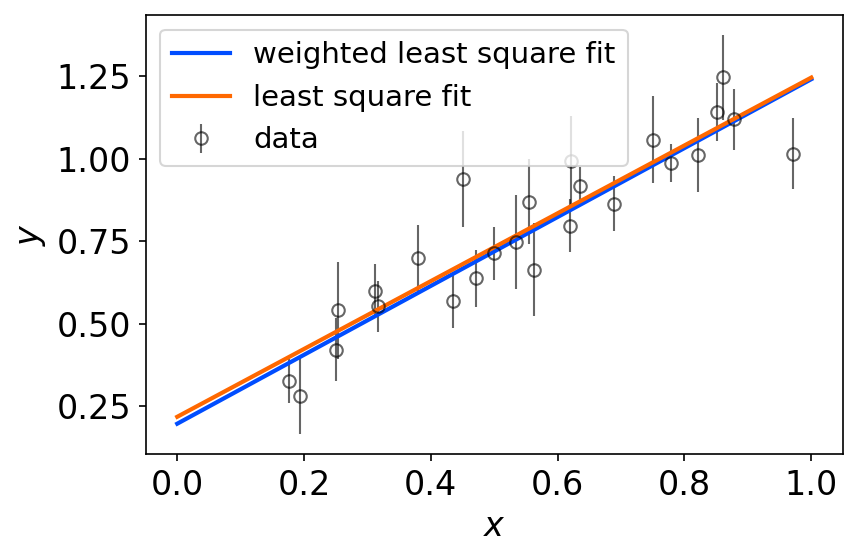
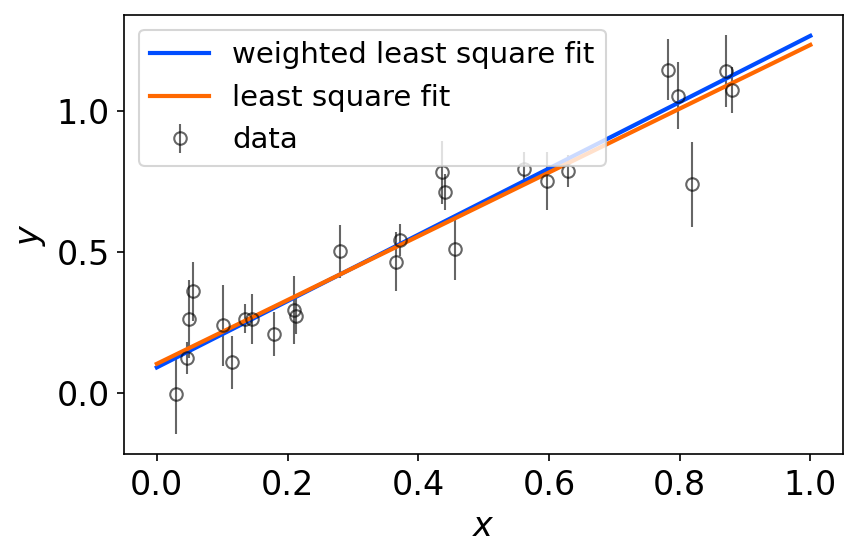
Update documentation

diff --git a/searchindex.js b/searchindex.js
@@ -1,1 +1,1 @@
-Search.setIndex({docnames:["intro","pages/example_shifting","pages/fitting_a_line_to_data","pages/good_and_bad_coding_practices","pages/good_and_bad_plotting_practices","pages/loops_and_parallelism","pages/making_rgb_images","pages/matrix_operations_with_numpy","pages/maxmimum_likelihood_worked_example","pages/publication_graphics_and_errorbars","pages/reading_fits_files","pages/tips_for_large_amounts_of_data"],envversion:{"sphinx.domains.c":2,"sphinx.domains.changeset":1,"sphinx.domains.citation":1,"sphinx.domains.cpp":3,"sphinx.domains.index":1,"sphinx.domains.javascript":2,"sphinx.domains.math":2,"sphinx.domains.python":2,"sphinx.domains.rst":2,"sphinx.domains.std":2,"sphinx.ext.intersphinx":1,"sphinxcontrib.bibtex":7,sphinx:56},filenames:["intro.md","pages/example_shifting.ipynb","pages/fitting_a_line_to_data.ipynb","pages/good_and_bad_coding_practices.ipynb","pages/good_and_bad_plotting_practices.ipynb","pages/loops_and_parallelism.ipynb","pages/making_rgb_images.ipynb","pages/matrix_operations_with_numpy.ipynb","pages/maxmimum_likelihood_worked_example.ipynb","pages/publication_graphics_and_errorbars.ipynb","pages/reading_fits_files.ipynb","pages/tips_for_large_amounts_of_data.ipynb"],objects:{},objnames:{},objtypes:{},terms:{"000":5,"00000000e":7,"0001":4,"0001027239995892":10,"0001308917999267578":5,"00609576":7,"010":4,"012584209442138672":5,"01666669920087":10,"020":4,"02709303":7,"0274x":2,"02922821045":10,"03382804":7,"0401":[5,11],"0435x":2,"046":10,"04956984519958496":5,"052011":10,"05862051":7,"06301708":7,"06532744900725809":8,"0x7f97aa5edd90":1,"0x7fc58dd8dd90":10,"0x7fc5904c5050":10,"0x7fd5abec6510":2,"0x7fd5acb7ea90":2,"100":[2,4,5,8,9,11],"1000":8,"10000000":5,"1024":[5,10],"108":10,"1089":5,"10983839":7,"1156":5,"120":[0,4],"121":5,"1225":5,"125":[3,4,6,9],"1250":10,"1296":5,"12t04":10,"1369":5,"139999848325e":10,"140":4,"14207650273224":5,"144":5,"1444":5,"150":[1,2,5,8,10,11],"1521":5,"15645762":7,"1570855422":10,"158":10,"15941578":7,"1600":5,"161":[5,11],"165":10,"1681":5,"169":5,"1722755945":11,"1764":5,"180":10,"1849":5,"190":4,"19128027e":7,"1936":5,"196":5,"19722765":7,"1974":2,"200":[3,6],"2000":10,"2019":10,"2021":0,"2025":5,"2048":10,"2097":3,"2116":5,"21515457":7,"216":4,"21615434":7,"2183":2,"2209":5,"225":5,"230":4,"2304":5,"2357076017879762x":8,"23793526":7,"2401":5,"24050117":7,"24078e":4,"241e":4,"24430881e":7,"2500":5,"250841140747":10,"2542721134":7,"256":[5,8],"256x256":8,"2601":5,"265":4,"2704":5,"2767312":7,"2809":5,"283":10,"2834634623":11,"2853":10,"289":5,"2916":5,"29939075":7,"2e33":3,"2kx2k":10,"300":[4,5,9],"3025":5,"305":4,"307":4,"3136":5,"31603766":3,"31826168":2,"32381837":7,"324":5,"3249":5,"325":10,"32773":2,"33310377":7,"3364":5,"340":4,"3481":5,"359":4,"3600":5,"361":5,"365":3,"370":4,"3721":5,"37544400e":7,"3844":5,"3864":5,"390":4,"3957824707":10,"3969":5,"3e10":4,"400":[4,5,10],"4001":1,"4096":5,"4225":5,"4356":5,"441":5,"4489":5,"460":4,"4624":5,"475":4,"4761":5,"484":5,"48423146":7,"490":4,"4900":5,"496e":3,"500":[1,4],"5041":5,"512":10,"51788":[5,11],"5184":5,"521":4,"526":4,"529":5,"5329":5,"5476":5,"55035876":7,"551":4,"55434032":7,"55708672e":7,"5625":5,"5719208717346191":5,"576":5,"5776":5,"5929":5,"596127":8,"59851851e":7,"5e13":3,"6000":5,"6084":5,"6241":5,"625":[5,10],"638":4,"63983894":7,"640":4,"6400":5,"6561":5,"657384":10,"670":4,"6724":5,"676":5,"67e":3,"68559354":7,"6889":5,"6999969482":10,"700":10,"7000":5,"7056":5,"711232209935982":5,"7225":5,"7254":10,"729":5,"72909715e":7,"735":4,"7396":5,"740":4,"755":4,"7569":5,"76478413":7,"7744":5,"780029297":10,"784":5,"7921":5,"800":1,"8100":5,"8281":5,"839":4,"840":4,"841":5,"8464":5,"854":4,"86097095":7,"8649":5,"8836":5,"900":[4,5],"9025":5,"9216":5,"935":4,"9409":5,"946270226152e":10,"950":4,"954":4,"956150167288":3,"9604":5,"961":5,"970":4,"97399356":7,"975":4,"97923713":7,"9801":5,"98999528":7,"break":11,"case":2,"duch\u00ean":0,"float":2,"function":[1,3,7,8],"import":[1,2,3,4,5,6,7,8,9,10,11],"new":[10,11],"return":[3,4,5,6,8,9],"true":[2,4,8],"try":11,"var":[7,11],"while":0,DCS:10,FOR:[5,10],For:[2,11],NOT:7,The:[2,3],There:[5,9],WCS:10,__main__:8,__name__:8,a_grid:8,ab_grid:8,about:1,abov:2,abs:4,acquisit:10,adc:10,add:[2,3,8],add_subplot:10,adn:8,adrian:[2,8],after:[1,2,10],airmass:10,all:9,all_imag:11,along:[10,11],alpha:[2,3,4,5,8],alpha_fit:8,also:8,alwai:11,amp:10,amplifi:10,ampscol:10,ampsrow:10,anaconda3:[8,10],analyz:11,angl:10,angstrom:[5,11],anoth:2,anyth:0,apernam:10,aperord:10,aperraw:10,apertur:10,appear:10,append:[4,5],append_ax:[1,8],approxim:3,arang:[3,5,11],arb:[10,11],arbitrari:8,archiv:10,arg:[4,8],argument:10,arr1:5,arr2:5,arrai:[2,4,5,7,8,10],array_invers:7,art:9,artist:9,ascens:10,assign:[9,11],assum:[2,8,9],astronomi:[0,3],astropi:[1,3,5,6,10,11],astroscrappi:10,auto:8,axes:[1,4,6,8,11],axes_grid1:[1,8],axesimag:10,axi:[1,3,10],axin:8,b_filenam:6,b_grid:8,back:9,backend:9,bad:[5,10],bbox_inch:4,becaus:11,becom:[8,10],befor:[1,10],beg:10,begin:[2,10],best:[2,8],beta:[2,8],beta_0:2,beta_1:2,beta_:2,beta_fit:8,beta_hat:2,beta_hat_unweight:2,beta_hat_weight:2,better:[3,10],between:[1,8],bia:10,bin:[4,10],binprd:10,binscln:10,bitpix:10,black:4,blog:[2,8],blue:[4,6,8],blues_r:1,board:10,boldsymbol:2,both:[2,9],bscale:10,built:8,bzero:10,calcul:8,call:[1,3,5,7,10,11],camcksum:10,camera:10,cameraid:10,can:[2,8,10],cap:[9,10],capacitor:10,capsiz:[4,9],card:10,care:[1,11],cax:[1,8],ccd:10,ccdpix:10,cd1_1:10,cd1_1c:10,cd1_2:10,cd1_2c:10,cd2_1:10,cd2_1c:10,cd2_2:10,cd2_2c:10,cdb:10,cdelt1:11,cdelt1u:10,cdelt2u:10,celesti:10,center:[4,8],centimet:3,cgs:3,chang:[3,10],charg:10,check:5,checksum:10,chi:[3,4],chunk:[5,11],cksumok:10,clean:10,clear:3,clock:10,close:[10,11],cmap:[1,2,6,8,10],cmu:2,cname1:10,cname1c:10,cname2:10,cname2c:10,code:[0,5,8,10],coeff0:5,coeff1:5,col:6,color:[1,2,3,4,5,6,9,10],colorbar:[1,3,8,10],column:[2,10],column_stack:2,columnwis:7,comment:[3,10],compar:[8,9],comput:10,concis:3,conform:10,connect:9,constant:[2,3],contain:9,control:10,convert:3,coord:10,coordin:10,core:7,corner:8,cos:[3,4],count:[4,10],cover:10,crder1:10,crder1c:10,crder2:10,crder2c:10,creat:10,credit:0,crimson:[2,8,9],crpix1:10,crpix1c:10,crpix2:10,crpix2c:10,crval1:[10,11],crval1c:10,crval1u:10,crval2:10,crval2c:10,crval2u:10,cselprd:10,cshalizi:2,csmp:10,csv:11,csyer1:10,csyer1c:10,csyer2:10,csyer2c:10,ctm:10,ctype1:10,ctype1c:10,ctype2:10,ctype2c:10,cunit1:10,cunit1c:10,cunit2:10,cunit2c:10,current:[8,10,11],cwd:10,d165_os_bs_ff_bp_crj:[10,11],dai:3,darkblu:2,dash:[3,4,8],dat2:4,dat:4,data:[3,4,6,8,9,10],datasec:10,datastyl:2,date:10,datum:2,deal:11,dec:10,declin:10,def:[1,3,4,5,6,8,11],defin:[2,3,5,11],deg:10,delta:4,deprec:[8,10],descrambl:10,descript:10,design:2,detail:1,detector:10,dgeom:10,diag:2,dict:[2,9],dictstly:2,diff:1,differ:[1,5,7,8],difficult:9,dimens:[7,8,10,11],direct:[2,10],directli:[2,10],directori:11,disp:8,displai:[3,10],displaystyl:2,distanc:[3,4],distribut:9,divid:[1,8],dl0:4,dnaxis1:10,dnaxis2:10,doc:10,document:3,doe:9,don:[8,11],done:11,dot:[2,4],doubl:11,dpi:[1,2,3,4,5,6,8,10,11],dsensor:10,dspb:10,dstack:6,dt_base:5,dt_fast:5,dt_numpi:5,dt_slow:5,dure:10,each:[2,5,8,9,10,11],earth:3,easi:11,easier:11,ecolor:[2,4,9],edg:[1,9],edgecolor:[1,8],edu:2,effect:11,effici:5,either:8,element:[2,10,11],elif:4,elinewidth:[2,9],elinor:10,els:5,empti:11,end:[2,5,10],entir:5,enumer:[6,8,11],epoch:10,eps:[9,11],equat:[2,8],equinox:10,equinoxu:10,equival:10,eras:10,erg:5,erpbin:10,err:4,error:[2,8,10],errorbar:[2,4],evalu:[2,3,8],evaluate_on_grid:8,even:9,everi:11,exampl:11,example_shift:11,exp:10,exposur:[6,10],express:2,exptim:10,extra:11,extrem:5,face:9,fall:0,fals:[4,5],fast:5,feel:0,fft2:1,fft:1,field:10,fig1:[4,11],fig2:[4,11],fig3:[4,11],fig5:[4,11],fig6:[4,11],fig:[1,4,6,8,10,11],figsiz:[3,4,5,6,8,10],figur:[1,2,3,4,5,6,8,10,11],file:[5,7,9,11],file_nam:[10,11],filenam:10,fill_between:[3,5],filter:10,filtnam:10,filtord:10,filtraw:10,final_figur:[9,11],find:8,first:[2,9,11],fit:[1,4,5,6,11],fits_card:10,fitting_a_line_to_data:11,fix:[3,10],fk5:10,flat:[6,8,10,11],float32:10,flux:[5,11],folder:[7,11],font:2,fontsiz:[1,2,3,4,5,8,9,10],form:2,format:[9,10],fourier_shift:1,fourier_star:1,frac:8,fraction:10,frame:10,frameon:4,free:0,frequent:3,from:[1,3,4,5,6,7,8,10,11],func:8,func_val:8,g_filenam:6,gain:10,gaspard:0,gate:10,gaussian:[2,8,9],gausssian:8,gca:1,gener:[2,3,5,8,9],genfromtxt:7,geomcod:10,geometri:10,get:[5,6,8,9,10],get_cmap:2,get_spectrum_and_wavelength:5,given:[2,8],global:3,good:9,good_and_bad_coding_practic:11,good_and_bad_plotting_practic:11,good_spectrum_fast:5,good_spectrum_slow:5,gouraud:8,grab:10,grad:10,gradient:8,grai:2,gram:3,great:[2,3,8],green:[4,6,8],grei:10,grid:[4,8],ground:2,guess:[8,10],gufunc:7,had:3,half:1,hard:[5,10],has:[7,8,10],hat:2,have:[2,3,5,8,9,11],hdul:10,header:[5,10,11],helper:3,here:[0,2,5,9],heteroscedast:2,high:10,hist:4,histor:10,histori:10,hopefulli:0,hour:[3,10],how:[2,9],hstack:7,html:10,http:[2,8,10],hundr:11,i_j:10,ident:11,idnum:10,ifft2:1,imag:[8,11],image_b:6,image_g:6,image_r:6,imagenorm:10,imagin:5,implement:8,imshow:[1,6,10,11],in_rang:6,inclus:7,index:10,individu:5,info:10,initi:[5,6],inlin:9,input:[1,3,5,7,8],input_:1,inset:8,inset_loc:8,instead:[5,11],instrum:10,integ:4,integr:4,integrand:4,intensity_rang:6,interact:9,interp:1,interv:10,inv:[2,7],invent:8,invers:[1,4,8],ipykernel_7692:7,ipykernel_7729:11,ipykernel_launch:[8,10],ipynb:11,iraf:10,is_bad:5,isn:0,iter:[5,8,11],its:7,itself:11,ivar:8,jacobpilawa:[8,10],jet:2,kdzzptnn501_n9y8q82g0c1w0000gn:[7,11],keep:[3,11],kepler:3,keplers_third_law:3,know:[0,5],known:2,label:[2,3,4,5,8,9,10],lam:5,lambda:[4,5],last:[3,7,11],later:[8,10],law:3,lectur:2,left:[2,8],legaci:3,legend:[2,3,4,5,8,9],len:[3,4,5,8,9,11],length:[3,8],length_of_year:3,let:[0,2,10],lib:[8,10],librari:3,lick:10,lightblu:1,like:[3,11],limit:3,linalg:[2,7],line:[4,8,9],linear:[8,10],linearstretch:10,linestyl:[2,9],link:8,linspac:[2,3,4,8,9],list:10,listdir:11,ln_likelihood:8,load:[7,11],load_imag:6,load_in_imag:11,loadtxt:7,loc1:8,loc2:8,loc:[2,4,8,9],log10:4,log:8,logic:3,lognorm:[1,6,10],logstretch:10,look:[9,11],loop:11,loops_and_parallel:11,loral:10,lot:11,low:10,lower:[1,6,9,10],m16ga:[6,11],m16ra:[6,11],m16ua:[1,6,11],m57:10,magenta:3,magic:3,magma:10,major:3,make:[2,3,5,8,9,11],make_axes_locat:[1,8],make_measurement_from_imag:11,make_plot:3,making_rgb_imag:11,mark:1,mark_inset:8,marker:[2,4,8,9],markeredgecolor:[2,9],markeredgewidth:9,markerfacecolor:9,mass:[3,4],match:10,math:2,mathbf:2,mathcal:8,matplotlib:[1,2,3,4,5,6,8,10,11],matplotlibdeprecationwarn:[8,10],matrix:2,matrix_operations_with_numpi:11,max:3,maxim:8,maxmimum_likelihood_worked_exampl:11,measur:[2,9],mec:2,mersp:10,meshgrid:8,messi:8,mfc:2,microsecond:10,might:11,min:[3,4,8],mind:3,minim:8,minimum:8,minmaxinterv:10,minor:[8,10],minut:3,mismatch:7,mle:8,mode:[1,10],model:[2,8],modifi:2,modul:[7,11],modular:3,modulu:4,more:[2,9,11],most:[3,7,11],mpl:[1,2,6,10],mpl_toolkit:[1,8],mpp:10,mreg:2,mstar:3,msun:3,mu0:4,multipl:10,multiply_arrai:5,must:5,name:[3,10,11],nameerror:11,naxi:10,naxis1:[10,11],naxis2:10,ncol:[1,4,6],ncshift:10,nearest:8,nebula:10,need:3,neg:8,negative_ln_likelihood:8,negative_ln_likelihood_v:8,new_out:6,newcam:10,newton:3,nhbesp:10,nice:[10,11],nickel:10,nickel_direct:10,noao:10,nois:[2,8],none:[2,4,8,9],norm:[1,6,10],normal:[2,4,7,8,9,10],note:7,notebook:[0,8,9],notyetset:10,now:[2,8,11],npy:[7,11],nrow:[1,4,6],nshift:1,nstime:10,number:[3,10],numpi:[1,2,3,4,6,8,9,10],object:[3,5,10],observ:10,obsnum:10,obstyp:10,odot:4,off:[1,9],often:[3,7],omeg:4,omega:4,omega_:4,omega_l:4,omega_m:4,omegam:4,onc:5,one:[10,11],ones:[2,5,7,8],ones_lik:9,onli:[2,10],opaqu:9,open:[1,5,6,10,11],oper:5,operand:7,optim:8,option:[1,8],orbit:3,order:1,ordin:10,org:10,orient:[1,8],origin:[1,6,8,10],other:[1,7,10],otherwis:11,our:[2,3,8,9],out:5,output:[3,5,8,11],overscan:10,ownrhint:10,ownrnot:10,packag:[5,8,10,11],pad:[1,8,10],paddc:10,par:8,parallel:10,param:8,paramet:[8,10],part:5,partial:9,pass:[8,10,11],path:10,pcolor:8,pcolormesh:8,pdf:2,peopl:11,per:10,percentil:[1,6,10],perform:5,perhap:3,period:[3,10],pfreq:10,pixel:10,pleas:10,plot:[2,3,5,8,11],plot_before_and_aft:1,plot_image_analysi:11,plot_subimag:6,plt:[1,2,3,4,5,6,8,9,10,11],png:[4,11],poco:10,point:[2,3,8,9],polyfit:8,posit:[4,10],post:10,postscript:9,pprerd:10,pre:[10,11],preread:10,price:8,primari:10,primaryhdu:10,print:[1,2,3,5,7,8,10],problem:9,process_imag:11,program:10,proper:2,properli:2,properti:9,psf_11star:11,psf_gaussian_51:[1,11],pskip:10,publication_graphics_and_errorbar:11,pull:3,put:0,pyplot:[1,2,3,4,5,6,8,9,10,11],python3:[8,10],python:11,qadc:10,quad:4,quadrilater:8,question:4,quickli:11,r_filenam:6,radecsi:10,radesyss:10,rand:[7,11],random:[0,2,4,7,8,9,10,11],randomli:[2,8],rang:[4,5],ravel:8,rcparam:[2,8,10],rcshift:10,read:[5,6],readabl:3,reading_fits_fil:11,readout:10,real:[1,3,10],realli:[8,11],reason:5,reassign:5,recent:[7,11],record:11,red:[4,5,6,8],redshift:4,ref:10,refer:10,region:[3,5,8],releas:[8,10],reli:3,remov:10,render:9,replac:10,resampl:9,rescal:6,rescale_intens:6,reshap:[2,8],resourc:[2,8],result:[1,2,3,8],reveras:10,revers:10,rewrit:2,rgb_rescal:6,right:[1,2,4,8,9,10],ring:10,rise:10,rotat:[4,10],round:[2,3],rover:10,row:[9,10],rowwis:7,saddc:10,sai:5,same:[6,8,11],sampl:[2,8,10],sample_data:11,save:[7,11],savefig:[4,9],savetxt:7,savez:11,scalar:9,scale:[4,6,8],scatter:[1,3,8,9],scipi:[4,8],sclean:10,second:[3,4,5,9,10],seconds_to_year:3,section:[2,10],see:2,select:10,semi:3,semi_major_axi:3,sensibl:3,sensor:10,separ:9,serial:10,set:[5,8],set_titl:1,set_xlabel:[1,8],set_xlim:8,set_xtick:[1,6,11],set_ylabel:[1,8],set_ylim:8,set_ytick:[1,6,11],sfreq:10,sftcksum:10,shade:[3,8],shape:[1,2,6,7,8,9],share:3,sharei:4,sharex:4,shifted_star:1,show:[1,3,5,6,10],shuffl:10,shutter:10,sigma_:8,sigma_i:2,signatur:7,simpl:[10,11],simul:[2,4,9],simultan:10,sin:[3,4,9],sinc:[8,10],singl:10,sinh:4,site:[8,10],size:[1,2,4,7,8,9],skimag:6,skip:10,slightli:2,slow:[5,11],snippet:[0,8],softwar:10,solar:3,solid:4,solv:[2,3],some:[0,1,2,5,8,9],someth:11,sometim:[10,11],sort:11,sourc:5,spb:10,spd:10,spec:[5,11],special:10,specifi:[8,9],specta:11,spectrum:5,speed:[5,10],spspec:[5,11],sqrt:[3,4],sqrtstretch:10,stabl:10,stack:[6,7],standard:10,star:1,start:[5,10],stat:2,state:10,statement:[3,5],stellar:4,stop:5,style:[9,10],sub:8,subplot:[1,4,6,8,11],substrat:10,subtract:10,successfulli:8,sum:8,sum_:8,sun:3,support:9,symmetr:9,sys:10,system:[3,10],systemat:10,t_in_second:3,t_in_year:3,tabl:11,take:8,taken:8,tan:10,tcpr1:10,tcpr2:10,teach:0,telescop:10,tell:1,tempcon:10,tempdet:10,temperatur:[3,10],termin:8,test:[3,5],test_figur:[9,11],test_figure_hir:[9,11],text:[4,8,11],textsf:2,texttt:[8,11],than:3,thi:[2,3,5,8,10,11],thing1:10,thing:[3,10,11],third:3,those:5,though:[10,11],thousand:11,through:5,tick:[1,10],tick_right:8,tick_top:8,tight:4,tight_layout:[2,8,10],time:[2,3,4,5,10,11],time_in_second:3,time_in_year:3,tip:9,tips_for_large_amounts_of_data:11,titl:[3,10],togeth:0,top:8,tqdm:11,traceback:[7,11],transform:1,transpar:9,treat:10,trim:1,truth:[2,8],tsclean:10,tsec:10,tsprd:10,tub:10,turn:1,tusec:10,tutori:9,two:[8,10],type:10,u_fouri:1,u_rol:1,u_shift:1,ucam:10,ucamadc:10,ucamcdb:10,ucamsoft:10,ucamspb:10,ucamtim:10,ugeom:10,uncertainti:[2,8],uncorrel:8,underbrac:2,uniform:[2,7,8,9],unit:[3,10,11],unmask:5,unreli:5,unweight:2,upper:[2,4,9],use:[5,7,10,11],used:1,useful:[7,9],user:[8,10],uses:11,using:10,valu:[2,3,4,5,6,8,9,10,11],value1:5,value2:5,valueerror:7,variabl:3,varianc:8,vdot:2,vector:2,vector_of_on:2,ver:10,version:10,vertic:[1,4,8],visual:8,vmax:[1,6,8,10],vmin:[1,6,8,10],voltag:10,vstack:[7,8],vsuber:10,vsubex:10,wai:8,want:[5,11],watch:5,wavelength:[5,11],wcsname:10,wcsnamec:10,week:3,well:8,what:[1,2],whatev:5,wheel:8,whelan:8,when:[8,9,10,11],where:[2,5],which:[2,3,10,11],width:9,within:6,workshop:10,world:3,www:2,x_fit:2,x_shift:1,x_transpos:7,xaxi:8,xerr:9,xlabel:[2,3,4,5,8,9,11],xlim:[3,4,10],y_err:[2,8],y_fit:2,y_fit_unweight:2,y_fit_weight:2,y_shift:1,yaxi:8,year:3,yerr:[4,9],yhat:8,ylabel:[2,3,4,5,8,9,11],ylim:[3,4,5,10],you:3,your:[1,3],zero:[6,8,11],zip:[5,6],zoom:8,zoomed_inset_ax:8,zscaleinterv:10},titles:["Welcome!","Shifting Images","Fitting a Line to Data","Good and Bad Coding Practices","Good and Bad Plotting Practices","Loops and Parallelism","Making RGB Images","Matrix Operations with Numpy","Maximum Likelihood","Publication Quality Plots and Errorbars","Reading FITS Files","Tips for Large Amounts of Data"],titleterms:{"default":9,"function":[5,11],"public":9,Adding:10,The:9,about:11,access:7,add:11,allow:9,altern:10,amount:11,append:11,appli:5,arrai:11,avoid:11,background:5,bad:[3,4],bar:9,base:[5,7],befor:11,both:11,can:[7,11],cartesian:9,code:[3,11],colon:7,column:7,compar:1,comput:5,consid:11,context:0,data:[1,2,5,11],deal:7,defin:9,design:7,down:9,dpi:9,each:7,effici:11,element:[5,7],entir:7,error:9,errorbar:9,exampl:5,fanci:10,feel:11,few:11,figur:9,file:10,find:5,first:8,fit:[2,8,10],fourier:1,frankli:9,free:11,fun:11,get:7,glob:11,good:[3,4],graini:9,graphic:9,guidelin:3,has:5,here:3,idea:3,imag:[1,6,10],improv:3,increas:9,index:7,inform:11,interpol:1,invers:7,larg:11,larger:11,least:[2,8],level:1,like:[7,10],likelihood:8,line:2,linear:2,look:7,loop:5,loss:9,low:9,make:[6,7],mani:11,mask:5,matmul:7,matplotlib:9,matric:[2,7],matrix:7,maximum:8,memori:11,might:10,minut:11,more:5,multipl:[7,11],multipli:5,naiv:9,ndimag:1,notebook:11,numpi:[5,7,11],often:9,onc:11,onli:11,oper:7,ordinari:8,other:3,parallel:5,pixel:[1,9],plane:9,plot:[1,4,9,10],png:9,practic:[3,4,5],prefer:9,print:11,probabl:5,process:11,python:[5,7],qualiti:9,quick:5,raster:9,raw:[1,10],read:[10,11],realli:10,rememb:11,report:9,resolut:9,rgb:6,roll:1,row:7,sampl:7,save:9,scale:[9,10],scipi:1,see:10,separ:11,shift:1,show:9,slice:7,some:[3,10],specif:7,speed:11,spline:1,squar:[2,8],start:8,statement:11,stretch:10,subset:11,take:11,term:9,thi:[7,9],think:11,tip:[5,11],tough:7,tranpos:7,ugli:9,updat:11,using:[5,11],util:11,vector:[5,9],veri:9,visual:10,wai:10,weight:2,welcom:0,what:3,where:11,which:[7,9],wise:5,without:9,you:[5,9,10,11],your:9,yourself:5,zero:7}})
+Search.setIndex({docnames:["intro","pages/example_shifting","pages/fitting_a_line_to_data","pages/good_and_bad_coding_practices","pages/good_and_bad_plotting_practices","pages/loops_and_parallelism","pages/making_rgb_images","pages/matrix_operations_with_numpy","pages/maxmimum_likelihood_worked_example","pages/publication_graphics_and_errorbars","pages/reading_fits_files","pages/tips_for_large_amounts_of_data"],envversion:{"sphinx.domains.c":2,"sphinx.domains.changeset":1,"sphinx.domains.citation":1,"sphinx.domains.cpp":3,"sphinx.domains.index":1,"sphinx.domains.javascript":2,"sphinx.domains.math":2,"sphinx.domains.python":2,"sphinx.domains.rst":2,"sphinx.domains.std":2,"sphinx.ext.intersphinx":1,"sphinxcontrib.bibtex":7,sphinx:56},filenames:["intro.md","pages/example_shifting.ipynb","pages/fitting_a_line_to_data.ipynb","pages/good_and_bad_coding_practices.ipynb","pages/good_and_bad_plotting_practices.ipynb","pages/loops_and_parallelism.ipynb","pages/making_rgb_images.ipynb","pages/matrix_operations_with_numpy.ipynb","pages/maxmimum_likelihood_worked_example.ipynb","pages/publication_graphics_and_errorbars.ipynb","pages/reading_fits_files.ipynb","pages/tips_for_large_amounts_of_data.ipynb"],objects:{},objnames:{},objtypes:{},terms:{"000":5,"00000000e":7,"0001":4,"0001027239995892":10,"0001308917999267578":5,"00609576":7,"010":4,"012584209442138672":5,"01666669920087":10,"020":4,"02709303":7,"0274x":[],"02922821045":10,"03382804":7,"0401":[5,11],"0435x":[],"046":10,"04956984519958496":5,"052011":10,"05862051":7,"06301708":7,"06532744900725809":8,"0903":2,"0x7f97aa5edd90":1,"0x7fc58dd8dd90":10,"0x7fc5904c5050":10,"0x7fd5abec6510":[],"0x7fd5acb7ea90":[],"0x7fe37733f490":2,"0x7fe377a4c810":2,"100":[2,4,5,8,9,11],"1000":8,"10000000":5,"1024":[5,10],"103":2,"108":10,"1089":5,"10983839":7,"1156":5,"120":[0,4],"121":5,"1225":5,"125":[3,4,6,9],"1250":10,"1296":5,"12t04":10,"1302x":2,"1369":5,"139999848325e":10,"140":4,"14207650273224":5,"144":5,"1444":5,"150":[1,2,5,8,10,11],"1521":5,"15645762":7,"1570855422":10,"158":10,"15941578":7,"1600":5,"161":[5,11],"165":10,"1681":5,"169":5,"1722755945":11,"175x":2,"1764":5,"180":10,"1849":5,"190":4,"19128027e":7,"1936":5,"196":5,"19722765":7,"1974":[],"200":[3,6],"2000":10,"2019":10,"2021":0,"2025":5,"2048":10,"2097":3,"2116":5,"21515457":7,"216":4,"21615434":7,"2183":[],"2209":5,"225":5,"230":4,"2304":5,"2357076017879762x":8,"23793526":7,"2401":5,"24050117":7,"24078e":4,"241e":4,"24430881e":7,"2500":5,"250841140747":10,"2542721134":7,"256":[5,8],"256x256":8,"2601":5,"265":4,"2704":5,"2767312":7,"2809":5,"283":10,"2834634623":11,"2853":10,"289":5,"2916":5,"29939075":7,"2e33":3,"2kx2k":10,"300":[4,5,9],"3025":5,"305":4,"307":4,"3136":5,"31603766":3,"31826168":[],"32381837":7,"324":5,"3249":5,"325":10,"32544314":2,"32773":[],"33310377":7,"3364":5,"340":4,"3481":5,"359":4,"3600":5,"361":5,"365":3,"370":4,"3721":5,"37544400e":7,"3844":5,"3864":5,"38931179":2,"390":4,"3957824707":10,"3969":5,"3e10":4,"400":[4,5,10],"4001":1,"4096":5,"4225":5,"4356":5,"441":5,"4489":5,"460":4,"4624":5,"475":4,"4761":5,"484":5,"48423146":7,"490":4,"4900":5,"496e":3,"500":[1,4],"5041":5,"512":10,"51788":[5,11],"5184":5,"521":4,"526":4,"529":5,"5329":5,"5476":5,"55035876":7,"551":4,"55434032":7,"55708672e":7,"5625":5,"5719208717346191":5,"576":5,"5776":5,"5929":5,"596127":8,"59851851e":7,"5e13":3,"6000":5,"6084":5,"6241":5,"625":[5,10],"638":4,"63983894":7,"640":4,"6400":5,"6561":5,"657384":10,"670":4,"6724":5,"676":5,"67e":3,"68559354":7,"6889":5,"6999969482":10,"700":10,"7000":5,"7056":5,"711232209935982":5,"7225":5,"7254":10,"729":5,"72909715e":7,"735":4,"7396":5,"740":4,"755":4,"7569":5,"76478413":7,"7744":5,"780029297":10,"784":5,"7921":5,"800":1,"8100":5,"8281":5,"839":4,"840":4,"841":5,"8464":5,"854":4,"86097095":7,"8649":5,"8836":5,"900":[4,5],"9025":5,"9216":5,"935":4,"9409":5,"946270226152e":10,"950":4,"954":4,"956150167288":3,"9604":5,"961":5,"970":4,"97399356":7,"975":4,"97923713":7,"9801":5,"98999528":7,"break":11,"case":2,"duch\u00ean":0,"float":2,"function":[1,3,7,8],"import":[1,2,3,4,5,6,7,8,9,10,11],"new":[10,11],"return":[3,4,5,6,8,9],"true":[2,4,8],"try":11,"var":[7,11],"while":0,DCS:10,FOR:[5,10],For:[2,11],NOT:7,The:[2,3],There:[5,9],WCS:10,__main__:8,__name__:8,a_grid:8,ab_grid:8,about:1,abov:2,abs:4,acquisit:10,adc:10,add:[2,3,8],add_subplot:10,adn:8,adrian:[2,8],after:[1,2,10],airmass:10,all:9,all_imag:11,along:[10,11],alpha:[2,3,4,5,8],alpha_fit:8,also:8,alwai:11,amp:10,amplifi:10,ampscol:10,ampsrow:10,anaconda3:[8,10],analyz:11,angl:10,angstrom:[5,11],anoth:2,anyth:0,apernam:10,aperord:10,aperraw:10,apertur:10,appear:10,append:[4,5],append_ax:[1,8],approxim:3,arang:[3,5,11],arb:[10,11],arbitrari:8,archiv:10,arg:[4,8],argument:10,arr1:5,arr2:5,arrai:[2,4,5,7,8,10],array_invers:7,art:9,artist:9,ascens:10,assign:[9,11],assum:[2,8,9],astronomi:[0,3],astropi:[1,3,5,6,10,11],astroscrappi:10,auto:8,axes:[1,4,6,8,11],axes_grid1:[1,8],axesimag:10,axi:[1,3,10],axin:8,b_filenam:6,b_grid:8,back:9,backend:9,bad:[5,10],bbox_inch:4,becaus:11,becom:[8,10],befor:[1,10],beg:10,begin:[2,10],best:[2,8],beta:[2,8],beta_0:2,beta_1:2,beta_:2,beta_fit:8,beta_hat:2,beta_hat_unweight:2,beta_hat_weight:2,better:[3,10],between:[1,8],bia:10,bin:[4,10],binprd:10,binscln:10,bitpix:10,black:4,blog:[2,8],blue:[4,6,8],blues_r:1,bmatrix:2,board:10,boldsymbol:2,both:[2,9],bscale:10,built:8,bzero:10,calcul:8,call:[1,3,5,7,10,11],camcksum:10,camera:10,cameraid:10,can:[2,8,10],cap:[9,10],capacitor:10,capsiz:[4,9],card:10,care:[1,11],cax:[1,8],ccd:10,ccdpix:10,cd1_1:10,cd1_1c:10,cd1_2:10,cd1_2c:10,cd2_1:10,cd2_1c:10,cd2_2:10,cd2_2c:10,cdb:10,cdelt1:11,cdelt1u:10,cdelt2u:10,celesti:10,center:[4,8],centimet:3,cgs:3,chang:[3,10],charg:10,check:5,checksum:10,chi:[3,4],chunk:[5,11],cksumok:10,clean:10,clear:3,clock:10,close:[10,11],cmap:[1,2,6,8,10],cmu:2,cname1:10,cname1c:10,cname2:10,cname2c:10,code:[0,5,8,10],coeff0:5,coeff1:5,col:6,color:[1,2,3,4,5,6,9,10],colorbar:[1,3,8,10],column:[2,10],column_stack:2,columnwis:7,comment:[3,10],compar:[8,9],comput:10,concis:3,conform:10,connect:9,constant:[2,3],contain:9,control:10,convert:3,coord:10,coordin:10,core:7,corner:8,cos:[3,4],count:[4,10],cover:10,crder1:10,crder1c:10,crder2:10,crder2c:10,creat:10,credit:0,crimson:[2,8,9],crpix1:10,crpix1c:10,crpix2:10,crpix2c:10,crval1:[10,11],crval1c:10,crval1u:10,crval2:10,crval2c:10,crval2u:10,cselprd:10,cshalizi:2,csmp:10,csv:11,csyer1:10,csyer1c:10,csyer2:10,csyer2c:10,ctm:10,ctype1:10,ctype1c:10,ctype2:10,ctype2c:10,cunit1:10,cunit1c:10,cunit2:10,cunit2c:10,current:[8,10,11],cwd:10,d165_os_bs_ff_bp_crj:[10,11],dai:3,darkblu:2,dash:[3,4,8],dat2:4,dat:4,data:[3,4,6,8,9,10],datasec:10,datastyl:2,date:10,datum:2,deal:11,dec:10,declin:10,def:[1,3,4,5,6,8,11],defin:[2,3,5,11],deg:10,delta:4,deprec:[8,10],descrambl:10,descript:10,design:2,detail:1,detector:10,dgeom:10,diag:2,dict:[2,9],dictstly:2,diff:1,differ:[1,5,7,8],difficult:9,dimens:[7,8,10,11],direct:[2,10],directli:[2,10],directori:11,disp:8,displai:[3,10],displaystyl:2,distanc:[3,4],distribut:9,divid:[1,8],dl0:4,dnaxis1:10,dnaxis2:10,doc:10,document:3,doe:9,don:[8,11],done:11,dot:[2,4],doubl:11,dpi:[1,2,3,4,5,6,8,10,11],dsensor:10,dspb:10,dstack:6,dt_base:5,dt_fast:5,dt_numpi:5,dt_slow:5,dure:10,each:[2,5,8,9,10,11],earth:3,easi:11,easier:11,ecolor:[2,4,9],edg:[1,9],edgecolor:[1,8],edu:2,effect:11,effici:5,either:8,element:[2,10,11],elif:4,elinewidth:[2,9],elinor:10,els:5,empti:11,end:[2,5,10],entir:5,enumer:[6,8,11],epoch:10,eps:[9,11],equat:[2,8],equinox:10,equinoxu:10,equival:10,eras:10,erg:5,erpbin:10,err:4,error:[2,8,10],errorbar:[2,4],evalu:[2,3,8],evaluate_on_grid:8,even:9,everi:11,exampl:11,example_shift:11,exp:10,exposur:[6,10],express:2,exptim:10,extra:11,extrem:5,face:9,fall:0,fals:[4,5],fast:5,feel:0,fft2:1,fft:1,field:10,fig1:[4,11],fig2:[4,11],fig3:[4,11],fig5:[4,11],fig6:[4,11],fig:[1,4,6,8,10,11],figsiz:[3,4,5,6,8,10],figur:[1,2,3,4,5,6,8,10,11],file:[5,7,9,11],file_nam:[10,11],filenam:10,fill_between:[3,5],filter:10,filtnam:10,filtord:10,filtraw:10,final_figur:[9,11],find:8,first:[2,9,11],fit:[1,4,5,6,11],fits_card:10,fitting_a_line_to_data:11,fix:[3,10],fk5:10,flat:[6,8,10,11],float32:10,flux:[5,11],folder:[7,11],font:2,fontsiz:[1,2,3,4,5,8,9,10],form:2,format:[9,10],fourier_shift:1,fourier_star:1,frac:8,fraction:10,frame:10,frameon:4,free:0,frequent:3,from:[1,3,4,5,6,7,8,10,11],func:8,func_val:8,g_filenam:6,gain:10,gaspard:0,gate:10,gaussian:[2,8,9],gausssian:8,gca:1,gener:[2,3,5,8,9],genfromtxt:7,geomcod:10,geometri:10,get:[5,6,8,9,10],get_cmap:2,get_spectrum_and_wavelength:5,given:[2,8],global:3,good:9,good_and_bad_coding_practic:11,good_and_bad_plotting_practic:11,good_spectrum_fast:5,good_spectrum_slow:5,gouraud:8,grab:10,grad:10,gradient:8,grai:2,gram:3,great:[2,3,8],green:[4,6,8],grei:10,grid:[4,8],ground:2,guess:[8,10],gufunc:7,had:3,half:1,hard:[5,10],has:[7,8,10],hat:2,have:[2,3,5,8,9,11],hdul:10,header:[5,10,11],helper:3,here:[0,2,5,9],heteroscedast:2,high:10,hist:4,histor:10,histori:10,hopefulli:0,hour:[3,10],how:[2,9],hstack:7,html:10,http:[2,8,10],hundr:11,i_j:10,ident:11,idnum:10,ifft2:1,imag:[8,11],image_b:6,image_g:6,image_r:6,imagenorm:10,imagin:5,implement:8,imshow:[1,6,10,11],in_rang:6,inclus:7,index:10,individu:5,info:10,initi:[5,6],inlin:9,input:[1,3,5,7,8],input_:1,inset:8,inset_loc:8,instead:[5,11],instrum:10,integ:4,integr:4,integrand:4,intensity_rang:6,interact:9,interp:1,interv:10,inv:[2,7],invent:8,invers:[1,4,8],ipykernel_7692:7,ipykernel_7729:11,ipykernel_launch:[8,10],ipynb:11,iraf:10,is_bad:5,isn:0,iter:[5,8,11],its:7,itself:11,ivar:8,jacobpilawa:[8,10],jet:2,kdzzptnn501_n9y8q82g0c1w0000gn:[7,11],keep:[3,11],kepler:3,keplers_third_law:3,know:[0,5],known:2,label:[2,3,4,5,8,9,10],lam:5,lambda:[4,5],last:[3,7,11],later:[8,10],law:3,lectur:2,left:[2,8],legaci:3,legend:[2,3,4,5,8,9],len:[3,4,5,8,9,11],length:[3,8],length_of_year:3,let:[0,2,10],lib:[8,10],librari:3,lick:10,lightblu:1,like:[3,11],limit:3,linalg:[2,7],line:[4,8,9],linear:[8,10],linearstretch:10,linestyl:[2,9],link:8,linspac:[2,3,4,8,9],list:10,listdir:11,ln_likelihood:8,load:[7,11],load_imag:6,load_in_imag:11,loadtxt:7,loc1:8,loc2:8,loc:[2,4,8,9],log10:4,log:8,logic:3,lognorm:[1,6,10],logstretch:10,look:[9,11],loop:11,loops_and_parallel:11,loral:10,lot:11,low:10,lower:[1,6,9,10],m16ga:[6,11],m16ra:[6,11],m16ua:[1,6,11],m57:10,magenta:3,magic:3,magma:10,major:3,make:[2,3,5,8,9,11],make_axes_locat:[1,8],make_measurement_from_imag:11,make_plot:3,making_rgb_imag:11,mark:1,mark_inset:8,marker:[2,4,8,9],markeredgecolor:[2,9],markeredgewidth:9,markerfacecolor:9,mass:[3,4],match:10,math:2,mathbf:2,mathcal:8,matplotlib:[1,2,3,4,5,6,8,10,11],matplotlibdeprecationwarn:[8,10],matrix:2,matrix_operations_with_numpi:11,max:3,maxim:8,maxmimum_likelihood_worked_exampl:11,measur:[2,9],mec:2,mersp:10,meshgrid:8,messi:8,mfc:2,microsecond:10,might:11,min:[3,4,8],mind:3,minim:8,minimum:8,minmaxinterv:10,minor:[8,10],minut:3,mismatch:7,mle:8,mode:[1,10],model:[2,8],modifi:2,modul:[7,11],modular:3,modulu:4,more:[2,9,11],most:[3,7,11],mpl:[1,2,6,10],mpl_toolkit:[1,8],mpp:10,mreg:2,mstar:3,msun:3,mu0:4,multipl:10,multiply_arrai:5,must:5,name:[3,10,11],nameerror:11,naxi:10,naxis1:[10,11],naxis2:10,ncol:[1,4,6],ncshift:10,nearest:8,nebula:10,need:3,neg:8,negative_ln_likelihood:8,negative_ln_likelihood_v:8,new_out:6,newcam:10,newton:3,nhbesp:10,nice:[10,11],nickel:10,nickel_direct:10,noao:10,nois:[2,8],none:[2,4,8,9],norm:[1,6,10],normal:[2,4,7,8,9,10],note:7,notebook:[0,8,9],notyetset:10,now:[2,8,11],npy:[7,11],nrow:[1,4,6],nshift:1,nstime:10,number:[3,10],numpi:[1,2,3,4,6,8,9,10],object:[3,5,10],observ:10,obsnum:10,obstyp:10,odot:4,off:[1,9],often:[3,7],omeg:4,omega:4,omega_:4,omega_l:4,omega_m:4,omegam:4,onc:5,one:[10,11],ones:[2,5,7,8],ones_lik:9,onli:[2,10],opaqu:9,open:[1,5,6,10,11],oper:5,operand:7,optim:8,option:[1,8],orbit:3,order:1,ordin:10,org:10,orient:[1,8],origin:[1,6,8,10],other:[1,7,10],otherwis:11,our:[2,3,8,9],out:5,output:[3,5,8,11],overscan:10,ownrhint:10,ownrnot:10,packag:[5,8,10,11],pad:[1,8,10],paddc:10,par:8,parallel:10,param:8,paramet:[8,10],part:5,partial:9,pass:[8,10,11],path:10,pcolor:8,pcolormesh:8,pdf:2,peopl:11,per:10,percentil:[1,6,10],perform:5,perhap:3,period:[3,10],pfreq:10,pixel:10,pleas:10,plot:[2,3,5,8,11],plot_before_and_aft:1,plot_image_analysi:11,plot_subimag:6,plt:[1,2,3,4,5,6,8,9,10,11],png:[4,11],poco:10,point:[2,3,8,9],polyfit:8,posit:[4,10],post:10,postscript:9,pprerd:10,pre:[10,11],preread:10,price:8,primari:10,primaryhdu:10,print:[1,2,3,5,7,8,10],problem:9,process_imag:11,program:10,proper:2,properli:2,properti:9,psf_11star:11,psf_gaussian_51:[1,11],pskip:10,publication_graphics_and_errorbar:11,pull:3,put:0,pyplot:[1,2,3,4,5,6,8,9,10,11],python3:[8,10],python:11,qadc:10,quad:4,quadrilater:8,question:4,quickli:11,r_filenam:6,radecsi:10,radesyss:10,rand:[7,11],random:[0,2,4,7,8,9,10,11],randomli:[2,8],rang:[4,5],ravel:8,rcparam:[2,8,10],rcshift:10,read:[5,6],readabl:3,reading_fits_fil:11,readout:10,real:[1,3,10],realli:[8,11],reason:5,reassign:5,recent:[7,11],record:11,red:[4,5,6,8],redshift:4,ref:10,refer:10,region:[3,5,8],releas:[8,10],reli:3,remov:10,render:9,replac:10,resampl:9,rescal:6,rescale_intens:6,reshap:[2,8],resourc:[2,8],result:[1,2,3,8],reveras:10,revers:10,rewrit:2,rgb_rescal:6,right:[1,2,4,8,9,10],ring:10,rise:10,rotat:[4,10],round:[2,3],rover:10,row:[9,10],rowwis:7,saddc:10,sai:5,same:[6,8,11],sampl:[2,8,10],sample_data:11,save:[7,11],savefig:[4,9],savetxt:7,savez:11,scalar:9,scale:[4,6,8],scatter:[1,3,8,9],scipi:[4,8],sclean:10,second:[3,4,5,9,10],seconds_to_year:3,section:[2,10],see:2,select:10,semi:3,semi_major_axi:3,sensibl:3,sensor:10,separ:9,serial:10,set:[5,8],set_titl:1,set_xlabel:[1,8],set_xlim:8,set_xtick:[1,6,11],set_ylabel:[1,8],set_ylim:8,set_ytick:[1,6,11],sfreq:10,sftcksum:10,shade:[3,8],shape:[1,2,6,7,8,9],share:3,sharei:4,sharex:4,shifted_star:1,show:[1,3,5,6,10],shuffl:10,shutter:10,sigma_:8,sigma_i:2,signatur:7,simpl:[10,11],simul:[2,4,9],simultan:10,sin:[3,4,9],sinc:[8,10],singl:10,sinh:4,site:[8,10],size:[1,2,4,7,8,9],skimag:6,skip:10,slightli:2,slow:[5,11],snippet:[0,8],softwar:10,solar:3,solid:4,solv:[2,3],some:[0,1,2,5,8,9],someth:11,sometim:[10,11],sort:11,sourc:5,spb:10,spd:10,spec:[5,11],special:10,specifi:[8,9],specta:11,spectrum:5,speed:[5,10],spspec:[5,11],sqrt:[3,4],sqrtstretch:10,stabl:10,stack:[6,7],standard:10,star:1,start:[5,10],stat:2,state:10,statement:[3,5],stellar:4,stop:5,style:[9,10],sub:8,subplot:[1,4,6,8,11],substrat:10,subtract:10,successfulli:8,sum:8,sum_:8,sun:3,support:9,symmetr:9,sys:10,system:[3,10],systemat:10,t_in_second:3,t_in_year:3,tabl:11,take:8,taken:8,tan:10,tcpr1:10,tcpr2:10,teach:0,telescop:10,tell:1,tempcon:10,tempdet:10,temperatur:[3,10],termin:8,test:[3,5],test_figur:[9,11],test_figure_hir:[9,11],text:[4,8,11],textsf:2,texttt:[8,11],than:3,thi:[2,3,5,8,10,11],thing1:10,thing:[3,10,11],third:3,those:5,though:[10,11],thousand:11,through:5,tick:[1,10],tick_right:8,tick_top:8,tight:4,tight_layout:[2,8,10],time:[3,4,5,10,11],time_in_second:3,time_in_year:3,times1:2,times2:2,tip:9,tips_for_large_amounts_of_data:11,titl:[3,10],togeth:0,top:8,tqdm:11,traceback:[7,11],transform:1,transpar:9,treat:10,trim:1,truth:[2,8],tsclean:10,tsec:10,tsprd:10,tub:10,turn:1,tusec:10,tutori:9,two:[8,10],type:10,u_fouri:1,u_rol:1,u_shift:1,ucam:10,ucamadc:10,ucamcdb:10,ucamsoft:10,ucamspb:10,ucamtim:10,ugeom:10,uncertainti:[2,8],uncorrel:8,underbrac:2,uniform:[2,7,8,9],unit:[3,10,11],unmask:5,unreli:5,unweight:2,upper:[2,4,9],use:[5,7,10,11],used:1,useful:[7,9],user:[8,10],uses:11,using:10,valu:[2,3,4,5,6,8,9,10,11],value1:5,value2:5,valueerror:7,variabl:3,varianc:8,vdot:2,vector:2,vector_of_on:2,ver:10,version:10,vertic:[1,4,8],visual:8,vmax:[1,6,8,10],vmin:[1,6,8,10],voltag:10,vstack:[7,8],vsuber:10,vsubex:10,wai:8,want:[5,11],watch:5,wavelength:[5,11],wcsname:10,wcsnamec:10,week:3,well:8,what:[1,2],whatev:5,wheel:8,whelan:8,when:[8,9,10,11],where:[2,5],which:[2,3,10,11],width:9,within:6,workshop:10,world:3,www:2,x_1:2,x_2:2,x_fit:2,x_n:2,x_shift:1,x_transpos:7,xaxi:8,xerr:9,xlabel:[2,3,4,5,8,9,11],xlim:[3,4,10],y_1:2,y_2:2,y_err:[2,8],y_fit:2,y_fit_unweight:2,y_fit_weight:2,y_n:2,y_shift:1,yaxi:8,year:3,yerr:[4,9],yhat:8,ylabel:[2,3,4,5,8,9,11],ylim:[3,4,5,10],you:3,your:[1,3],zero:[6,8,11],zip:[5,6],zoom:8,zoomed_inset_ax:8,zscaleinterv:10},titles:["Welcome!","Shifting Images","Fitting a Line to Data","Good and Bad Coding Practices","Good and Bad Plotting Practices","Loops and Parallelism","Making RGB Images","Matrix Operations with Numpy","Maximum Likelihood","Publication Quality Plots and Errorbars","Reading FITS Files","Tips for Large Amounts of Data"],titleterms:{"default":9,"function":[5,11],"public":9,Adding:10,The:9,about:11,access:7,add:11,allow:9,altern:10,amount:11,append:11,appli:5,arrai:11,avoid:11,background:5,bad:[3,4],bar:9,base:[5,7],befor:11,both:11,can:[7,11],cartesian:9,code:[3,11],colon:7,column:7,compar:1,comput:5,consid:11,context:0,data:[1,2,5,11],deal:7,defin:9,design:7,down:9,dpi:9,each:7,effici:11,element:[5,7],entir:7,error:9,errorbar:9,exampl:5,fanci:10,feel:11,few:11,figur:9,file:10,find:5,first:8,fit:[2,8,10],fourier:1,frankli:9,free:11,fun:11,get:7,glob:11,good:[3,4],graini:9,graphic:9,guidelin:3,has:5,here:3,idea:3,imag:[1,6,10],improv:3,increas:9,index:7,inform:11,interpol:1,invers:7,larg:11,larger:11,least:[2,8],level:1,like:[7,10],likelihood:8,line:2,linear:2,look:7,loop:5,loss:9,low:9,make:[6,7],mani:11,mask:5,matmul:7,matplotlib:9,matric:[2,7],matrix:7,maximum:8,memori:11,might:10,minut:11,more:5,multipl:[7,11],multipli:5,naiv:9,ndimag:1,notebook:11,numpi:[5,7,11],often:9,onc:11,onli:11,oper:7,ordinari:8,other:3,parallel:5,pixel:[1,9],plane:9,plot:[1,4,9,10],png:9,practic:[3,4,5],prefer:9,print:11,probabl:5,process:11,python:[5,7],qualiti:9,quick:5,raster:9,raw:[1,10],read:[10,11],realli:10,rememb:11,report:9,resolut:9,rgb:6,roll:1,row:7,sampl:7,save:9,scale:[9,10],scipi:1,see:10,separ:11,shift:1,show:9,slice:7,some:[3,10],specif:7,speed:11,spline:1,squar:[2,8],start:8,statement:11,stretch:10,subset:11,take:11,term:9,thi:[7,9],think:11,tip:[5,11],tough:7,tranpos:7,ugli:9,updat:11,using:[5,11],util:11,vector:[5,9],veri:9,visual:10,wai:10,weight:2,welcom:0,what:3,where:11,which:[7,9],wise:5,without:9,you:[5,9,10,11],your:9,yourself:5,zero:7}})

diff --git a/pages/fitting_a_line_to_data.html b/pages/fitting_a_line_to_data.html
@@ -329,12 +329,40 @@
 y = \beta_0 x + \beta_1
 \]</div>
 <p>Assuming that both y and x are vectors with <span class="math notranslate nohighlight">\(n\)</span> elements, we can rewrite this equation in matrix form:</p>
-<p>\begin{array}{c}
-{\left[\begin{array}{c}Y_{1} \ Y_{2} \ \vdots \ Y_{n}\end{array}\right]=\left[\begin{array}{c}\beta_{0}+\beta_{1} X_{1} \ \beta_{0}+\beta_{1} X_{2} \ \vdots \ \beta_{0}+\beta_{1} X_{n}\end{array}\right]} \ \underbrace{\left[\begin{array}{c}Y_{1} \ Y_{2} \ \vdots \ Y_{n}\end{array}\right]}<em>{Y</em>{n \times 1}}=\underbrace{\left[\begin{array}{cc}1 &amp; X_{1} \ 1 &amp; X_{2} \ \vdots &amp; \ 1 &amp; X_{n}\end{array}\right]}<em>{X</em>{n \times 2}} \underbrace{\left[\begin{array}{c}\beta_{0} \ \beta_{1}\end{array}\right]}<em>{\beta</em>{2 \times 1}}
-\end{array}</p>
+<div class="math notranslate nohighlight">
+\[\begin{split}
+\begin{bmatrix}
+Y_1 \\
+Y_2 \\
+\vdots \\
+Y_n 
+\end{bmatrix}  = \begin{bmatrix}
+\beta_0 + \beta_1 X_1 \\
+\beta_0 + \beta_1 X_2 \\
+\vdots \\
+\beta_0 + \beta_1 X_n 
+\end{bmatrix}
+\end{split}\]</div>
+<div class="math notranslate nohighlight">
+\[\begin{split}
+\underbrace{\begin{bmatrix}
+Y_1 \\
+Y_2 \\
+\vdots \\
+Y_n 
+\end{bmatrix}}_{Y_{n\times1}}  = \underbrace{\begin{bmatrix}
+1 &amp; X_1 \\
+1 &amp; X_2 \\
+\vdots &amp; \vdots \\
+1 &amp; X_n 
+\end{bmatrix}}_{X_{n\times2}} \underbrace{\begin{bmatrix}
+\beta_0 \\
+\beta_1 
+\end{bmatrix}}_{\beta_{2\times1}}
+\end{split}\]</div>
 <div class="math notranslate nohighlight">
 \[
-Y=X\beta
+Y = X \beta
 \]</div>
 <p>Here, I’ll simulate some data with <span class="math notranslate nohighlight">\(n=25\)</span>:</p>
 <div class="cell docutils container">
@@ -360,7 +388,7 @@ Y=X\beta
 </div>
 </div>
 <div class="cell_output docutils container">
-<div class="output text_plain highlight-myst-ansi notranslate"><div class="highlight"><pre><span></span>&lt;matplotlib.legend.Legend at 0x7fd5abec6510&gt;
+<div class="output text_plain highlight-myst-ansi notranslate"><div class="highlight"><pre><span></span>&lt;matplotlib.legend.Legend at 0x7fe37733f490&gt;
 </pre></div>
 </div>
 <img alt="../_images/fitting_a_line_to_data_6_1.png" src="../_images/fitting_a_line_to_data_6_1.png" />
@@ -416,8 +444,8 @@ Y shape:  (25, 1)
 </div>
 </div>
 <div class="cell_output docutils container">
-<div class="output text_plain highlight-myst-ansi notranslate"><div class="highlight"><pre><span></span>array([[0.32773   ],
-       [2.31826168]])
+<div class="output text_plain highlight-myst-ansi notranslate"><div class="highlight"><pre><span></span>array([[0.32544314],
+       [2.38931179]])
 </pre></div>
 </div>
 </div>
@@ -445,7 +473,7 @@ Y shape:  (25, 1)
 </div>
 </div>
 <div class="cell_output docutils container">
-<div class="output text_plain highlight-myst-ansi notranslate"><div class="highlight"><pre><span></span>&lt;matplotlib.legend.Legend at 0x7fd5acb7ea90&gt;
+<div class="output text_plain highlight-myst-ansi notranslate"><div class="highlight"><pre><span></span>&lt;matplotlib.legend.Legend at 0x7fe377a4c810&gt;
 </pre></div>
 </div>
 <img alt="../_images/fitting_a_line_to_data_14_1.png" src="../_images/fitting_a_line_to_data_14_1.png" />
@@ -521,8 +549,8 @@ Y shape:  (25, 1)
 </div>
 </div>
 <div class="cell_output docutils container">
-<div class="output stream highlight-myst-ansi notranslate"><div class="highlight"><pre><span></span>Weighted Least Squares:	  y = 1.0435x+0.1974
-Unweighted Least Squares: y = 1.0274x+0.2183
+<div class="output stream highlight-myst-ansi notranslate"><div class="highlight"><pre><span></span>Weighted Least Squares:	  y = 1.175x+0.0903
+Unweighted Least Squares: y = 1.1302x+0.103
 </pre></div>
 </div>
 </div>
